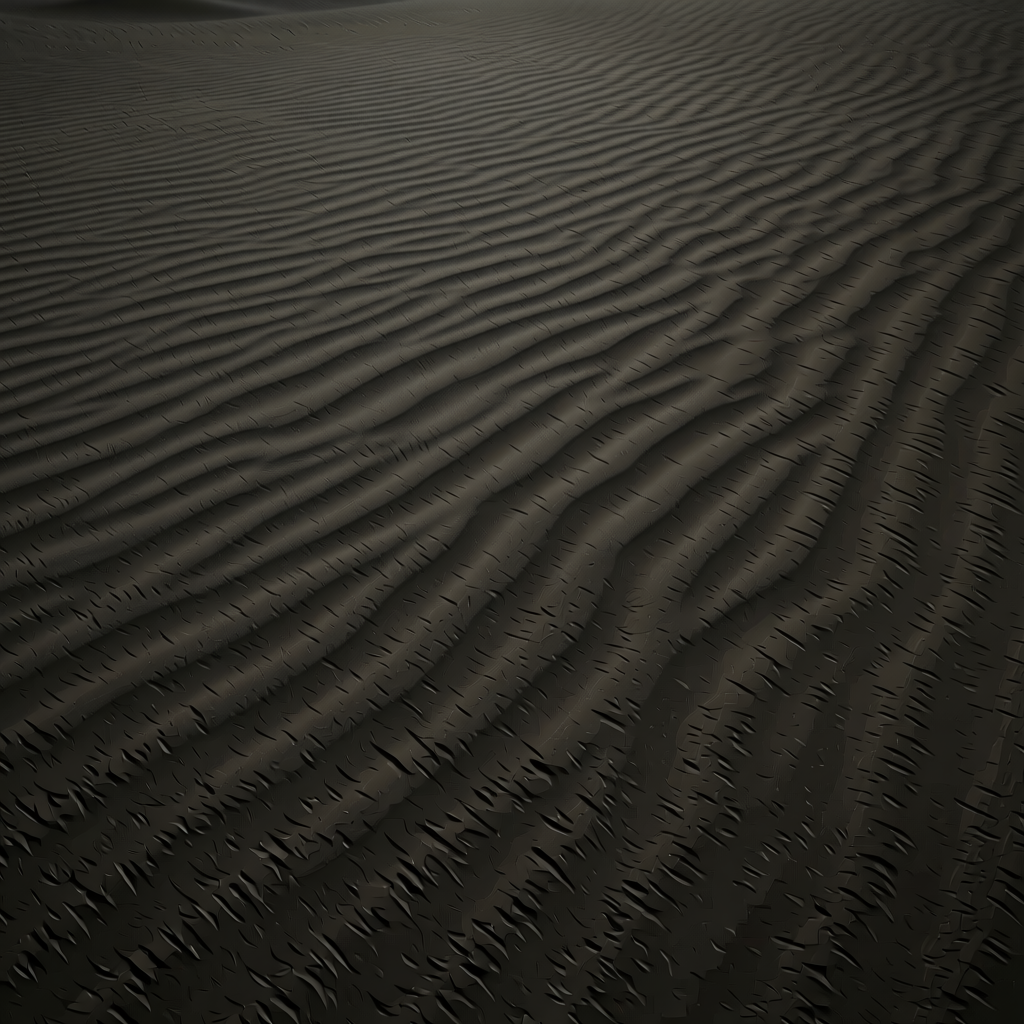
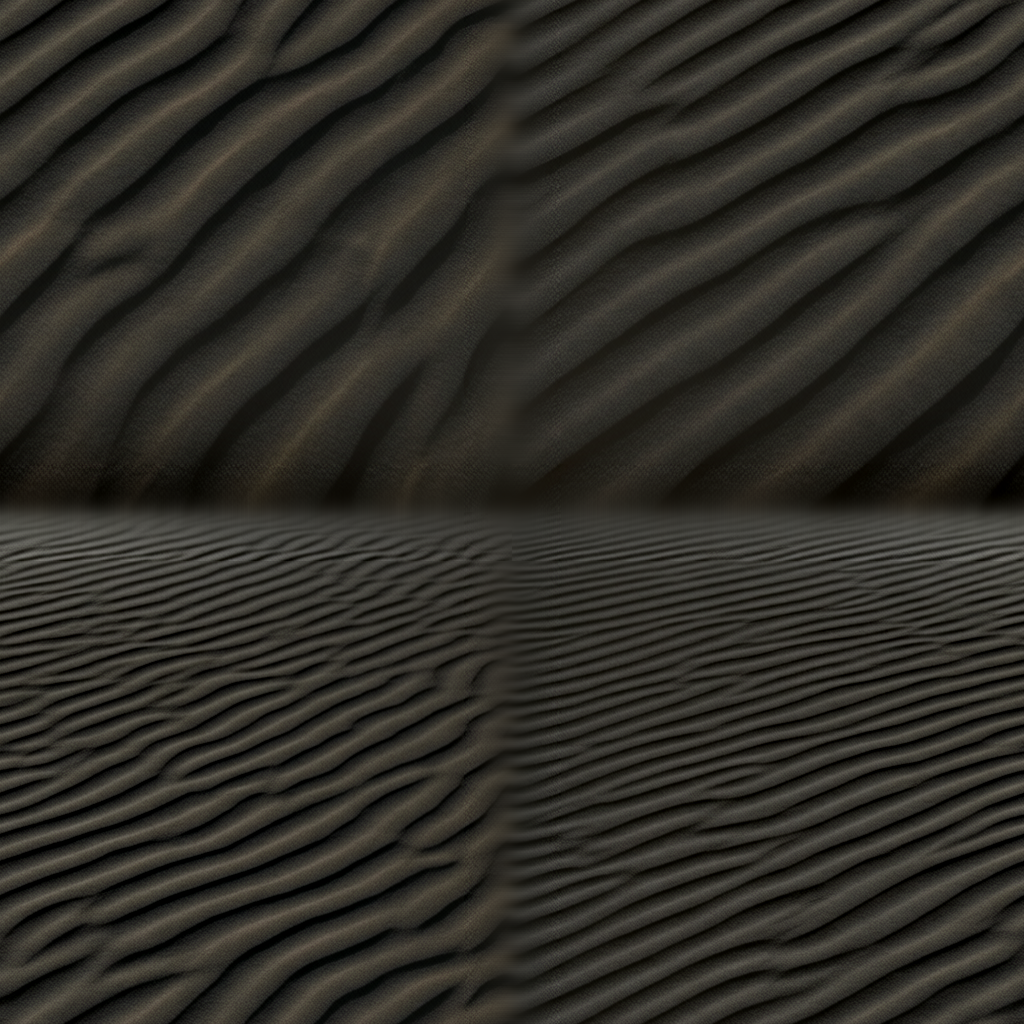
art(biomes): re-master all 4 ground tiles genuinely seamless (MC 11084, DA-c2 G2)
Old tiles had visible wrap seams (worst wrap/neighbour-diff ratio 3.4-8.9, gate 1.25).
New: 3090 t2i (seed 42; desert+snow seed-44 regen to kill perspective banding) +
deterministic FFT low-frequency flatten, roll-half offset-blend w/ detail restore,
auto film grain, per-channel palette match to old mean/std. Worst ratio now 0.85-1.12.
static/ and godot/ copies byte-identical; .import untouched (dims/type unchanged).
Disclosed: fleet-vision lane flagged soft blend-band softness (grass centres);
tile edges seam-free by measurement. Evidence .tmp/tile-reseam-11084.txt.

diff --git a/static/assets/MANIFEST.md b/static/assets/MANIFEST.md
@@ -49,15 +49,36 @@ four are graded very dark (mean luminance 39–55/255, no blown highlights). Gra
 tundra are single-pass t2i (seed 42); desert and snow went through extra passes
 (desert: t2i seed 44 + reference-edit seed 45 to remove scrub/perspective; snow: t2i
 seed 44 + reference-edit seed 45 for snow identity + a deterministic 0.58× PIL
-luminance grade). Seamless-tiling is style-level (uniform edge-to-edge density), not
-pixel-exact wraparound. Per-tile vision verdicts: `.tmp/biome-art-11076.txt`.
+luminance grade). Seamless-tiling was style-level (uniform edge-to-edge density), not
+pixel-exact wraparound — SUPERSEDED by the tile re-master below (card 11084): all four
+files below were replaced; their bytes/ratios are the re-mastered ones, the 11078
+generation history is kept for provenance. Per-tile vision verdicts:
+`.tmp/biome-art-11076.txt`.
 
 | file | px | on-disk bytes | prompt description (before the style anchor) |
 |---|---|---|---|
-| biomes/grass.png | 1024×1024 | 1975560 | Seamless top-down dark moor-grass ground texture at night: short dense dormant grass tufts barely visible in moonlight, subtle dark moss-green and grey-brown tuft clumping, faint patches of damp dark earth, rough weathered texture, no objects, no path, no characters, no text |
-| biomes/desert.png | 1024×1024 | 1384508 | Seamless top-down deep dune-sand ground texture at night: fine wind-swept sand with faint thin rippled wind lines across the whole tile, deep ink shadows with muted cold sand-brown highlights, smooth weathered texture, no objects, no plants, no text |
-| biomes/snow.png | 1024×1024 | 1554393 | Seamless top-down bluish-grey snowfield ground texture at night: wind-scoured compacted snow, faint diagonal wind streaks and low sastrugi ridges, fine crystalline grain with scattered tiny frost sparkles and thin blue-grey ice patches, dark underexposed moonlit grade, no objects, no footprints, no text |
-| biomes/tundra.png | 1024×1024 | 1939908 | Seamless top-down frozen cracked-mud ground texture at night: polygonal dried mud crack pattern across the whole tile, thin pale frost lining the cracks, subtle icy sheen patches, cold rough weathered texture, no objects, no rocks, no text |
+| biomes/grass.png | 1024×1024 | 2445218 | Seamless top-down dark moor-grass ground texture at night: short dense dormant grass tufts barely visible in moonlight, subtle dark moss-green and grey-brown tuft clumping, faint patches of damp dark earth, rough weathered texture, no objects, no path, no characters, no text (re-mastered card 11084) |
+| biomes/desert.png | 1024×1024 | 1546787 | Seamless top-down deep dune-sand ground texture at night: fine wind-swept sand with faint thin rippled wind lines across the whole tile, deep ink shadows with muted cold sand-brown highlights, smooth weathered texture, no objects, no plants, no text (re-mastered card 11084, seed 44 regen — v1 carried the same perspective banding as the 11078 tile) |
+| biomes/snow.png | 1024×1024 | 1811095 | Seamless top-down bluish-grey snowfield ground texture at night: wind-scoured compacted snow, faint diagonal wind streaks and low sastrugi ridges, fine crystalline grain with scattered tiny frost sparkles and thin blue-grey ice patches, dark underexposed moonlit grade, no objects, no footprints, no text (re-mastered card 11084, seed 44 regen — v1 carried a crust/flat-snow perspective break) |
+| biomes/tundra.png | 1024×1024 | 2383921 | Seamless top-down frozen cracked-mud ground texture at night: polygonal dried mud crack pattern across the whole tile, thin pale frost lining the cracks, subtle icy sheen patches, cold rough weathered texture, no objects, no rocks, no text (re-mastered card 11084) |
+
+## Tile re-master (card 11084, 2026-10-21)
+
+DA-c2 G2: the 11078 biome tiles showed VISIBLE SEAMS tiled (render.gd `tiled=true`;
+live :8123 captures). All four tiles re-mastered genuinely seamless on the same vm100
+RTX 3090 imagegen pipeline, then made wrap-continuous by a deterministic recipe
+(FFT wrap-safe low-frequency flatten → roll-half offset-blend across the midlines with
+high-frequency detail restore → auto film grain → per-channel palette match to the
+11078 file's mean/std — palette and mean luminance preserved within ±1). Both copies
+replaced (`static/assets/biomes/` + `godot/assets/biomes/`, byte-identical; dims/type
+unchanged so the `.import` files need no edit — the ctex caches regenerate on next
+Godot open/export). Seam metric: mean|left−right| and |top−bottom| wrap-diff ÷
+mean|neighbour-diff| (~1.0 seamless; gate ≤1.25). Worst-axis old→new:
+grass 4.44→1.09, desert 8.92→1.02, snow 7.85→1.12, tundra 3.38→1.10. Full old-vs-new
+table, regen log and vision-lane leg (partial + low-confidence, disclosed):
+`.tmp/tile-reseam-11084.txt`. Residual honest gap: the offset-blend midline bands are
+faintly perceptible at tile CENTRES on grass close-up (soft, not an edge step); the
+tile EDGES — what tiling shows — are seam-free by measurement.
 
 ## Biome enemies (2026-10-21, card 11081)
 
